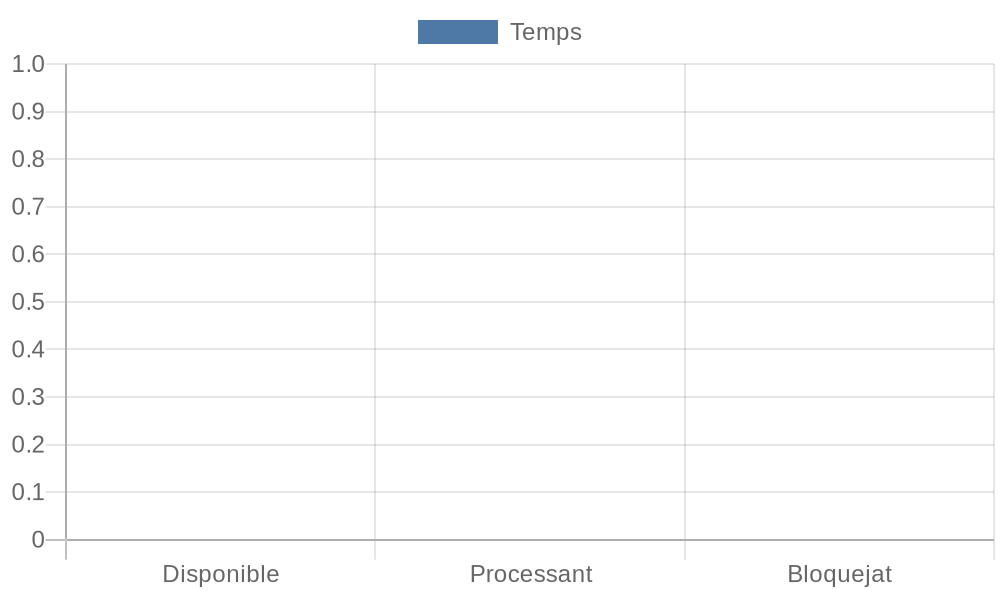
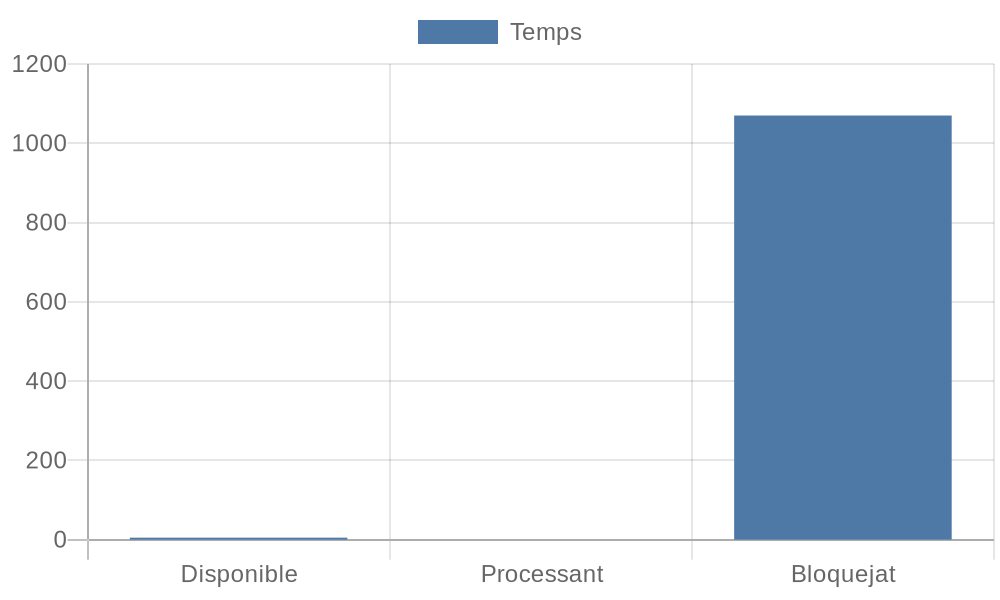
Mostra els esttadistics del generador

diff --git a/Assets/Scripts/Objectes/GeneradorScript.cs b/Assets/Scripts/Objectes/GeneradorScript.cs
@@ -173,6 +173,31 @@ public class GeneradorScript : LlibreriaObjectes, ITractarEsdeveniment
         eC.GeneraEstadistic(2, tempsEstats, etiquetes, "Percentatge", nomImatge);
     }
 
+    public override void ActualizaEstadistics(){
+        string estadistics = "Output: " + nEntitatsGenerades+"\n";
+        float tempsActual = (transform.parent.GetComponent<MotorSimuladorScript>().ObteTempsActual());
+        if (estat == estats.BLOQUEJAT){
+            tempsBloquejat += (tempsActual - ultimTemps); 
+            etiquetes.text = "1/1\n";
+        } 
+        else {
+            tempsGenerant += (tempsActual - ultimTemps);
+            etiquetes.text = "0/1\n";
+        }
+        etiquetes.text += transform.name + "\n";
+        ultimTemps = tempsActual;
+        float tempsTotal = tempsGenerant+tempsBloquejat;
+        float percGenerant = 100*(tempsGenerant/(tempsTotal));
+        float percBloquejat = 100*(tempsBloquejat/(tempsTotal));
+        if (nEntitatsGenerades != 0) estadistics += "Temps entre entitats: " + (tempsTotal/nEntitatsGenerades) +"\n";
+        estadistics += "% Generant: " + percGenerant + "\n";
+        estadistics += "% Bloquejat: " + percBloquejat + "\n";
+
+        
+        etiquetes.text += estadistics; 
+
+    }
+
     //////////////////////////////////////////////////////////////////////
     //                                                                  //
     //                                                                  //

diff --git a/Assets/Scripts/MotorSimuladorScript.cs b/Assets/Scripts/MotorSimuladorScript.cs
@@ -45,9 +45,11 @@ public class MotorSimuladorScript : MonoBehaviour
                 tempsActual = eActual.temps;
                 eActual.Executar();
                 UIScript.Instancia.UltimEsdeveniment(eActual);
+                for (int i = 0; i < objectesLlibreria.Count; ++i) objectesLlibreria[i].GetComponent<LlibreriaObjectes>().ActualizaEstadistics();
             }
             if (llistaEsdevenmients.Count == 0 && tempsMaxim > tempsActual) {
                 tempsActual = tempsMaxim;
+                for (int i = 0; i < objectesLlibreria.Count; ++i) objectesLlibreria[i].GetComponent<LlibreriaObjectes>().ActualizaEstadistics();
             }   
         }
     }
@@ -96,9 +98,11 @@ public class MotorSimuladorScript : MonoBehaviour
             tempsActual = eActual.temps;
             eActual.Executar();
             UIScript.Instancia.UltimEsdeveniment(eActual);
+            for (int i = 0; i < objectesLlibreria.Count; ++i) objectesLlibreria[i].GetComponent<LlibreriaObjectes>().ActualizaEstadistics();
         }
         if (llistaEsdevenmients.Count == 0 && tempsMaxim > tempsActual) {
             tempsActual = tempsMaxim;
+            for (int i = 0; i < objectesLlibreria.Count; ++i) objectesLlibreria[i].GetComponent<LlibreriaObjectes>().ActualizaEstadistics();
         }
     }
 

diff --git a/Assets/Scripts/Objectes/ProcessadorScript.cs b/Assets/Scripts/Objectes/ProcessadorScript.cs
@@ -314,6 +314,7 @@ public class ProcessadorScript : LlibreriaObjectes, ITractarEsdeveniment
         nomImatge = "Output"+gameObject.transform.name;
         eC.GeneraEstadistic(0, nEntitatsEstadistic, etiquetes, "Sortides",nomImatge);
     }
+    public override void ActualizaEstadistics(){}
 
     //////////////////////////////////////////////////////////////////////
     //                                                                  //

diff --git a/Assets/Scripts/Objectes/CuaScript.cs b/Assets/Scripts/Objectes/CuaScript.cs
@@ -263,6 +263,9 @@ public class CuaScript : LlibreriaObjectes
         eC.GeneraEstadistic(0, nEntitatsEstadistic, etiquetes, "Sortides",nomImatge);
     }
 
+    public override void ActualizaEstadistics(){
+    }
+
     //////////////////////////////////////////////////////////////////////
     //                                                                  //
     //                                                                  //

diff --git a/Assets/Scripts/Objectes/SortidaScript.cs b/Assets/Scripts/Objectes/SortidaScript.cs
@@ -98,6 +98,8 @@ public class SortidaScript : LlibreriaObjectes
         eC.GeneraEstadistic(0, nEntitatsEstadistic, etiquetes, "Sortides",nomImatge);
     }
 
+    public override void ActualizaEstadistics(){}
+
     //////////////////////////////////////////////////////////////////////
     //                                                                  //
     //                                                                  //

diff --git a/Assets/Scripts/Objectes/LlibreriaObjectes.cs b/Assets/Scripts/Objectes/LlibreriaObjectes.cs
@@ -26,6 +26,7 @@ public abstract class LlibreriaObjectes : MonoBehaviour
     public abstract int ObteTipusObjecte();
     public abstract void GenerarPlots();
     public abstract void ReiniciaSimulador();
+    public abstract void ActualizaEstadistics();
     
     // Funcions per la UI
     public abstract bool RatoliSobreDetalls();
